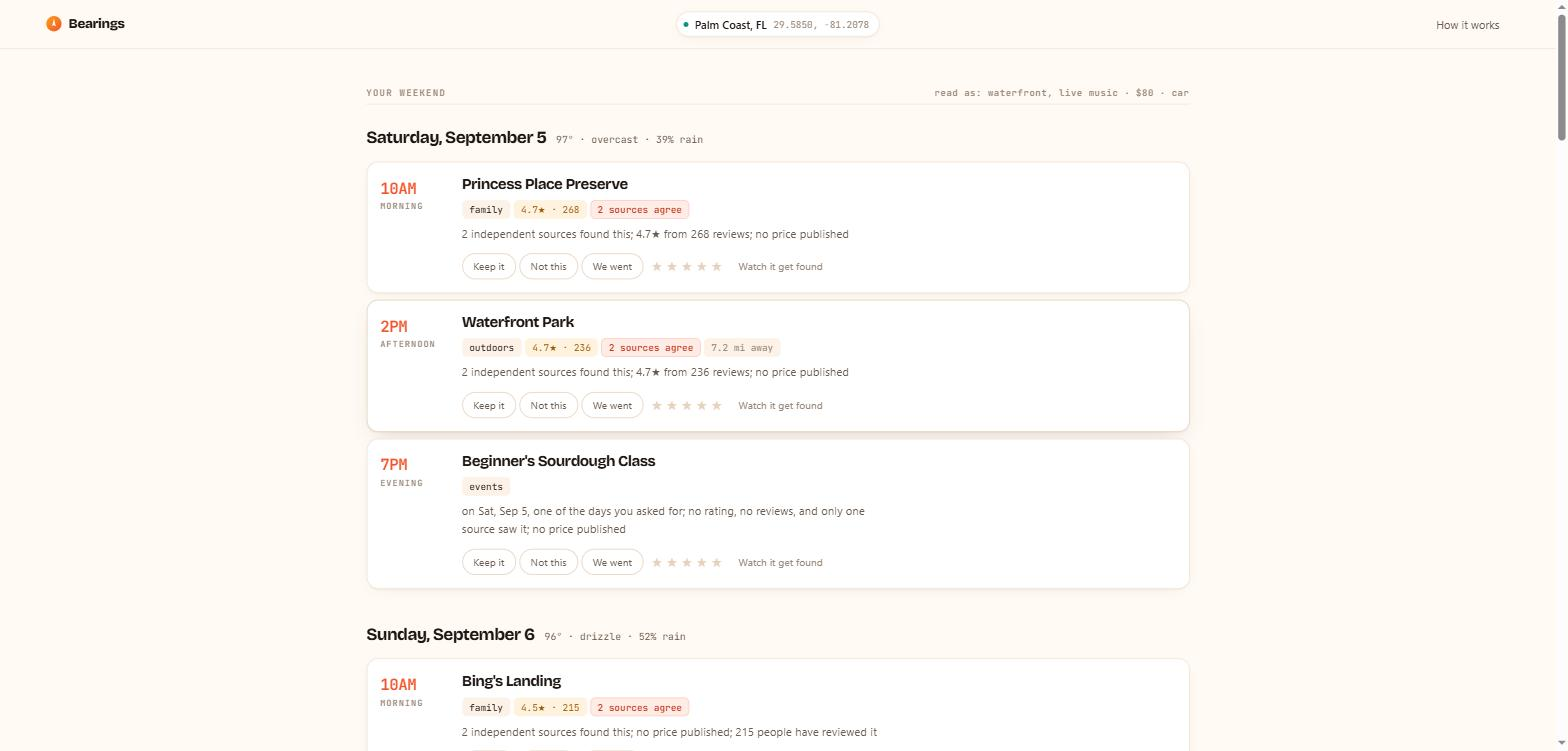
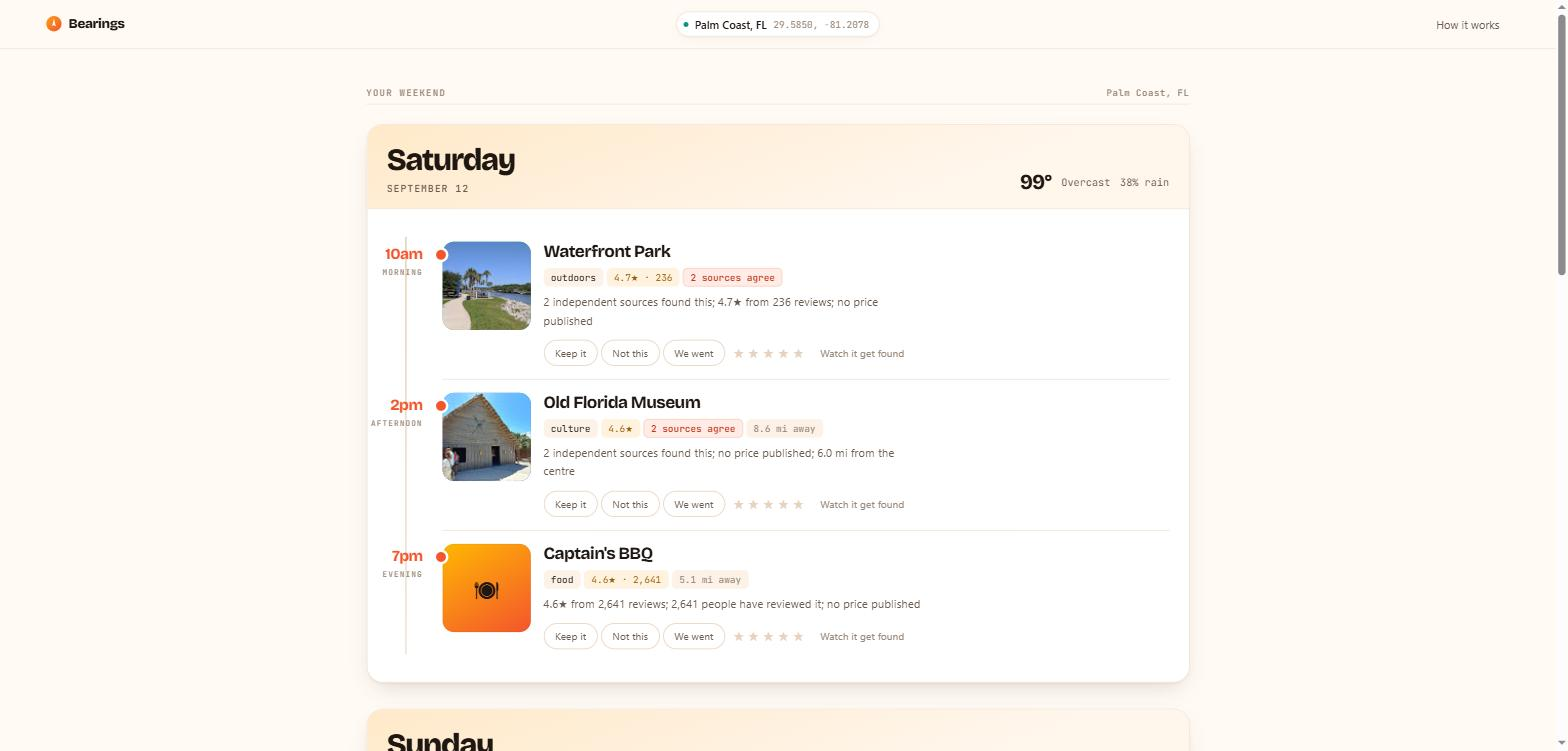
Say it in six words, and let people pick the weekend
The headline was three lines explaining a situation. It is two now — "You're
bored. This town isn't." — and the twenty seconds moved out of the button
and into the paragraph that explains the product, where a number belongs.
The mood chips went from nine to six; nine reads as a form to fill in
rather than a shortcut.

Which weekend is a real choice now, as four cards rather than a date field.
Picking a weekend is choosing between four options, not entering an
arbitrary date, and a calendar makes you find the Saturday yourself. The
dates are built from integer date parts rather than toISOString, which
converts to UTC first and would shift the answer by a day — the same trap
the server-side date arithmetic already documents. Somebody in Florida
picking "this weekend" should not get Sunday and Monday.

Verified end to end: picking Sep 12-13 plans Sep 12-13, and the forecast
comes back for those days rather than this weekend's.

The weekend buttons carry an aria-label, because their visible label is
three separate spans and the button had no accessible name at all.

Claude-Session: https://claude.ai/code/session_019BBHhkpGHkHhAocLbzUrM5

diff --git a/weekendfun/src/web/public/app.js b/weekendfun/src/web/public/app.js
@@ -81,16 +81,79 @@ const CATEGORY_LABEL = {
  * with no shape is the entire cold-start problem.
  */
 const MOODS = [
-  ["eat something good", "foodie"],
+  ["eat well", "foodie"],
   ["get outside", "outdoorsy"],
   ["live music", "nightlife"],
-  ["something to actually do", "active"],
+  ["something to do", "active"],
   ["with the kids", "family"],
-  ["museums and history", "cultural"],
   ["keep it cheap", "cheap"],
-  ["stay indoors", "indoors"],
-  ["a chill one", "chill"],
 ]
+
+/**
+ * The next few weekends, as local Y-M-D pairs.
+ *
+ * Built from integer date parts rather than `toISOString`, which converts to
+ * UTC first and shifts the answer by a day — the same trap the server-side
+ * date arithmetic documents. Somebody in Florida picking "this weekend"
+ * should not get Sunday and Monday.
+ */
+function upcomingWeekends(count = 4) {
+  const iso = (d) =>
+    `${d.getFullYear()}-${String(d.getMonth() + 1).padStart(2, "0")}-${String(d.getDate()).padStart(2, "0")}`
+
+  const today = new Date()
+  const base = new Date(today.getFullYear(), today.getMonth(), today.getDate())
+  const dow = base.getDay()
+  // Saturday or Sunday already? That's this weekend, not next week's.
+  const toSaturday = dow === 6 ? 0 : dow === 0 ? -1 : 6 - dow
+
+  return Array.from({ length: count }, (_, i) => {
+    const sat = new Date(base)
+    sat.setDate(base.getDate() + toSaturday + i * 7)
+    const sun = new Date(sat)
+    sun.setDate(sat.getDate() + 1)
+    return {
+      days: [iso(sat), iso(sun)],
+      month: sat.toLocaleDateString(undefined, { month: "short" }),
+      sat: sat.getDate(),
+      sun: sun.getDate(),
+      // The month rolls over inside some weekends.
+      sunMonth: sun.getMonth() === sat.getMonth() ? null : sun.toLocaleDateString(undefined, { month: "short" }),
+      label: i === 0 ? "This weekend" : i === 1 ? "Next weekend" : null,
+    }
+  })
+}
+
+function buildWeekends() {
+  const host = $("weekends")
+  clear(host)
+  state.weekends = upcomingWeekends(4)
+  state.weekendIndex = 0
+
+  state.weekends.forEach((w, i) => {
+    const spoken = `${w.label ?? "Weekend"}, ${w.month} ${w.sat} to ${w.sunMonth ?? w.month} ${w.sun}`
+    host.append(el("button", {
+      type: "button", class: "weekend", "aria-pressed": String(i === 0),
+      // The visible label is three separate spans, which leaves the button
+      // with no accessible name at all.
+      "aria-label": spoken,
+      onclick: () => {
+        state.weekendIndex = i
+        for (const [j, node] of [...host.children].entries()) {
+          node.setAttribute("aria-pressed", String(j === i))
+        }
+      },
+    }, [
+      el("span", { class: "weekend-month" }, w.month),
+      el("span", { class: "weekend-days" }, [
+        String(w.sat),
+        el("i", {}, "–"),
+        w.sunMonth ? `${w.sunMonth} ${w.sun}` : String(w.sun),
+      ]),
+      el("span", { class: "weekend-label" }, w.label ?? "Sat & Sun"),
+    ]))
+  })
+}
 
 // ───────────────────────────────────────────────────────────────── state
 
@@ -102,6 +165,8 @@ const state = {
   span: 20_000,
   recording: false,
   moods: new Set(),
+  weekends: [],
+  weekendIndex: 0,
   itinerary: null,
   catalogue: [],
   planned: new Set(),
@@ -142,6 +207,7 @@ function renderHere(place) {
 
 async function boot() {
   buildMoods()
+  buildWeekends()
   wire()
   try {
     const s = await (await fetch("/api/state")).json()
@@ -221,6 +287,8 @@ function start() {
   const q = new URLSearchParams({
     city, vibes: [...state.moods].join(","), budget: "300", record: "1",
   })
+  const weekend = state.weekends[state.weekendIndex]
+  if (weekend) q.set("days", weekend.days.join(","))
   // Free text layers ON TOP of the chips rather than replacing them — asking
   // for "date night" and also ticking "keep it cheap" should give you both.
   const ask = $("ask").value.trim()

diff --git a/weekendfun/src/web/public/index.html b/weekendfun/src/web/public/index.html
@@ -54,20 +54,19 @@
       </span>
 
       <h1 class="hero-line">
-        <span>It's the weekend</span>
-        <span>and you don't know</span>
-        <span>this town yet.</span>
+        <span>You're bored.</span>
+        <span>This town isn't.</span>
       </h1>
 
       <p class="hero-sub">
-        What's on near you is scattered across a dozen sites and none of them
-        will sell you an API. So we open real browsers in your city — actually
-        in it, at your coordinates — and read all of them at once.
+        Twelve sites know what's on this weekend and none of them talk to each
+        other. We read all of them at once, from a browser standing in your
+        city. Takes about twenty seconds.
       </p>
 
       <form class="ask" id="planForm" autocomplete="off">
-        <label class="field">
-          <span class="field-label">Your town</span>
+        <div class="field">
+          <span class="field-label">Where</span>
           <input id="city" name="city" list="cityList" placeholder="Tampa, FL" required
                  autocapitalize="words" spellcheck="false">
           <datalist id="cityList">
@@ -75,25 +74,24 @@
             <option value="Seattle, WA"><option value="Asheville, NC"><option value="Boise, ID">
             <option value="New Orleans, LA"><option value="Portland, OR">
           </datalist>
-        </label>
+        </div>
+
+        <div class="field">
+          <span class="field-label">Which weekend</span>
+          <div class="weekends" id="weekends"></div>
+        </div>
 
         <label class="field">
           <span class="field-label">
             What are you after?
             <em id="askHint">optional</em>
           </span>
-          <input id="ask" name="ask" placeholder="date night, no driving, under $100">
+          <input id="ask" name="ask" placeholder="bowling at night, under $80">
         </label>
 
-        <div class="field">
-          <span class="field-label">Or just pick a mood</span>
-          <div class="chips" id="moodChips"></div>
-        </div>
+        <div class="chips" id="moodChips"></div>
 
-        <button class="go" id="go" type="submit">
-          Find my weekend
-          <span class="go-sub" id="goSub">about 20 seconds</span>
-        </button>
+        <button class="go" id="go" type="submit">Find my weekend</button>
         <p class="ask-error" id="formError" hidden></p>
       </form>
     </div>

diff --git a/weekendfun/src/web/public/app.css b/weekendfun/src/web/public/app.css
@@ -225,6 +225,29 @@ body[data-screen="landing"] .screen--landing { display: flex; }
 .go:hover:not(:disabled) { transform: translateY(-1px); box-shadow: 0 12px 26px -8px rgba(244,85,44,.7); }
 .go:disabled { opacity: .5; cursor: progress; box-shadow: none; }
 .go-sub { font: 400 12.5px var(--mono); opacity: .8; }
+/* Which weekend. Four cards rather than a date field: picking a weekend is
+   choosing between four options, not entering an arbitrary date, and a
+   calendar makes you find the Saturday yourself. */
+.weekends { display: flex; flex-wrap: wrap; gap: var(--s2); }
+.weekend {
+  flex: 1 1 118px; min-width: 108px;
+  display: flex; flex-direction: column; align-items: flex-start; gap: 1px;
+  padding: var(--s3) var(--s4);
+  background: var(--card); border: 1px solid var(--rule-2); border-radius: var(--r-md);
+  cursor: pointer; text-align: left; transition: all .14s;
+}
+.weekend:hover { border-color: var(--coral); }
+.weekend-month { font: 500 10px var(--mono); letter-spacing: .14em; text-transform: uppercase; color: var(--faint); }
+.weekend-days { font-family: var(--display); font-weight: 700; font-size: 21px; letter-spacing: -0.03em; line-height: 1.1; }
+.weekend-days i { font-style: normal; color: var(--rule-2); margin: 0 2px; }
+.weekend-label { font-size: 11.5px; color: var(--muted); }
+.weekend[aria-pressed="true"] {
+  border-color: var(--coral); background: #fff3ef;
+  box-shadow: 0 0 0 3px rgba(244,85,44,.12);
+}
+.weekend[aria-pressed="true"] .weekend-month,
+.weekend[aria-pressed="true"] .weekend-label { color: var(--coral); }
+
 .chips { display: flex; flex-wrap: wrap; gap: var(--s1); }
 .chip {
   border: 1px solid var(--rule-2); background: var(--card); color: var(--muted);

diff --git a/weekendfun/README.md b/weekendfun/README.md
@@ -1,6 +1,6 @@
 # Bearings
 
-**It's the weekend and you don't know this town yet.**
+**You're bored. This town isn't.**
 
 What's on near you is split across a dozen sites and not one of them will sell
 you an API. Every attempt to unify local listings has died on exactly that —

diff --git a/README.md b/README.md
@@ -1,6 +1,6 @@
 # Bearings
 
-**Get your bearings in a town you don't know yet.**
+**You're bored. This town isn't.**
 
 *It's the weekend, you're new here, and you have no idea what's on.*
 
